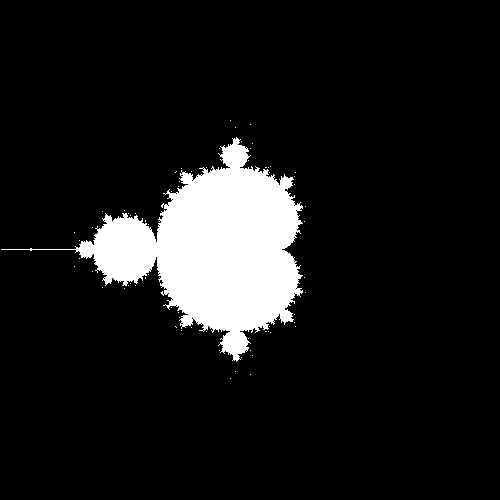
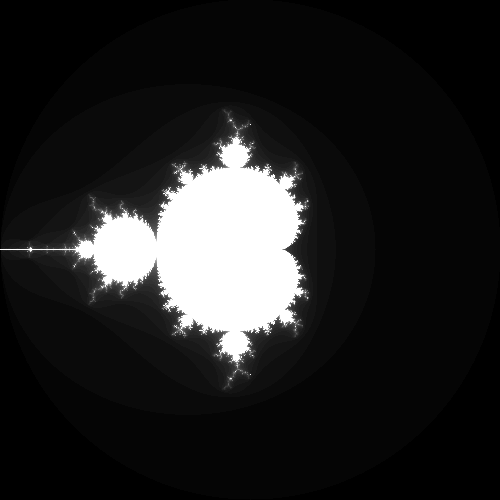
Fractale finie Youpi

Changed region(s): [[0.0, 0.21, 0.63, 0.78]]

diff --git a/src/workshop.cpp b/src/workshop.cpp
@@ -309,14 +309,20 @@ void fractaleMandelbrot()
             //std::cout << a << "  " << b << std::endl;
             std::complex<float> z{0.f,0.f};
             std::complex<float> c{a , b};
-            for(int i{0}; i<50; i++)
+            float i{0};
+            while(i<50)
             {
                 z = z * z + c;
+
+                if (std::abs(z)>2)
+                {
+                break;
+                }
+                i++;
             }
-            if (std::abs(z)<2)
-            {
-                image.pixel(x,y) = {1, 1, 1};
-            }
+            image.pixel(x,y).r = 0.f + i/50;
+            image.pixel(x,y).g = 0.f + i/50;
+            image.pixel(x,y).b = 0.f + i/50;
         }
     }
     image.save("output/fractale.png");
